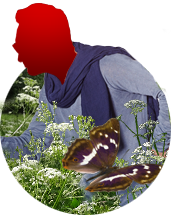
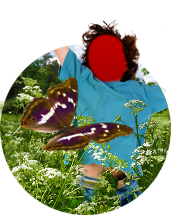
s

diff --git a/app/Assets/js/app/gui/LoadingView.vue b/app/Assets/js/app/gui/LoadingView.vue
@@ -3,6 +3,7 @@
         <ul>
             <li v-for="(val, index) in messages" :key="index">{{ val }}</li>
         </ul>
+        <div class="title">{{ title }}</div>
     </div>
 </template>
 
@@ -10,7 +11,7 @@
 
 import MainSceneInstance from '/js/app/scene/MainInstance';
 
-const packageVersion = JSON.stringify(require('/package.json').version);
+const packageVersion = require('/package.json').version;
 
 export default {
     name: "LoadingView",
@@ -28,10 +29,12 @@ export default {
             this.isLoaded = true;
         }
     },
+    computed: {
+        title() {
+            return 'SELFIE BOOTH ' + packageVersion;
+        }
+    },
     mounted() {
-        this.addLine('SELFIE BOOTH ' + packageVersion);
-        this.addLine('-----------------------------------------------');
-
         MainSceneInstance.registerLoaderViewCallback((message, isLoaded) => {
             this.addLine(message);
             if (isLoaded) {
@@ -43,6 +46,13 @@ export default {
 </script>
 
 <style lang="scss" scoped>
+    .title {
+        display: inline-block;
+        position:absolute;
+        top:30px;
+        right: 30px;
+        font-size: 30px;
+    }
     .overlay {
         position: absolute;
         left: 0;

diff --git a/app/Assets/js/app/scene/Scenes/BugsThemeScene.js b/app/Assets/js/app/scene/Scenes/BugsThemeScene.js
@@ -56,6 +56,8 @@ export default class BugsThemeScene extends BaseScene {
         switch (optionName) {
             case 'bug1':
                 this.material.setDiffuseTexture(this.bg1Texture);
+                this.targetFacePosition.x = 0.76;
+                this.targetFacePosition.y = 0.42;
                 break;
             case 'bug2':
                 this.material.setDiffuseTexture(this.bg2Texture);

diff --git a/config/admin.entry.js b/config/admin.entry.js
@@ -9,4 +9,7 @@ module.exports = {
         publicPath: '/',
         path: path.resolve(__dirname, '../public_photo_booth/assets/'),
     },
+    node: {
+        fs: 'empty'
+    }
 };

diff --git a/config/sharing.entry.js b/config/sharing.entry.js
@@ -9,4 +9,7 @@ module.exports = {
         publicPath: '/',
         path: path.resolve(__dirname, '../public_sharing/assets/'),
     },
+    node: {
+        fs: 'empty'
+    }
 };

diff --git a/app/Services/ImageService.php b/app/Services/ImageService.php
@@ -116,18 +116,16 @@ class ImageService
 
     public function getListOfImages(): array
     {
-        return ImageModel::findAllIndexes();
+        $images = ImageModel::findAll();
+        $this->sortImagesByNewest($images);
+        return $images;
     }
 
     public function getListOfImagesActive(): array
     {
         $images = ImageModel::findAll();
-        usort(
-            $images,
-            function (ImageModel $a, ImageModel $b) {
-                return $a->createdAt > $b->createdAt;
-            }
-        );
+        $this->sortImagesByNewest($images);
+
         $images = array_splice($images, 0, self::ACTIVE_IMAGES_COUNT);
 
         return array_map(function (ImageModel $imageModel) {
@@ -148,18 +146,23 @@ class ImageService
     public function cleanUpImages() : void
     {
         $images = ImageModel::findAll();
-        usort(
-            $images,
-            function (ImageModel $a, ImageModel $b) {
-                return $a->createdAt > $b->createdAt;
-            }
-        );
+        $this->sortImagesByNewest($images);
         $images = array_slice($images, self::ACTIVE_IMAGES_COUNT);
         foreach ($images as $image) {
             if (!$this->isSharingAvailable($image)) {
                 $image->delete();
             }
         }
+    }
+
+    private function sortImagesByNewest(array &$images): void
+    {
+        usort(
+            $images,
+            function (ImageModel $a, ImageModel $b) {
+                return $a->createdAt < $b->createdAt;
+            }
+        );
     }
 }
 

diff --git a/app/Controllers/ConfigurationApiController.php b/app/Controllers/ConfigurationApiController.php
@@ -144,13 +144,8 @@ class ConfigurationApiController extends ResourceController
 
     public function getAllImages()
     {
-        $images = ImageModel::findAll();
-        usort(
-            $images,
-            function (ImageModel $a, ImageModel $b) {
-                return $a->createdAt > $b->createdAt;
-            }
-        );
+        $imagesService = new ImageService();
+        $images = $imagesService->getListOfImages();
         $images = array_map(
             function (ImageModel $model) {
                 return new ImageInfoStructure($model);

diff --git a/app/Controllers/ApiController.php b/app/Controllers/ApiController.php
@@ -67,11 +67,6 @@ class ApiController extends ResourceController
         return $this->failNotFound("QR Code not found");
     }
 
-    public function dropExpiredImages()
-    {
-        //TODO
-    }
-
     public function serveImage(string $id)
     {
         $imageData = $this->imageService->getImageData($id);
